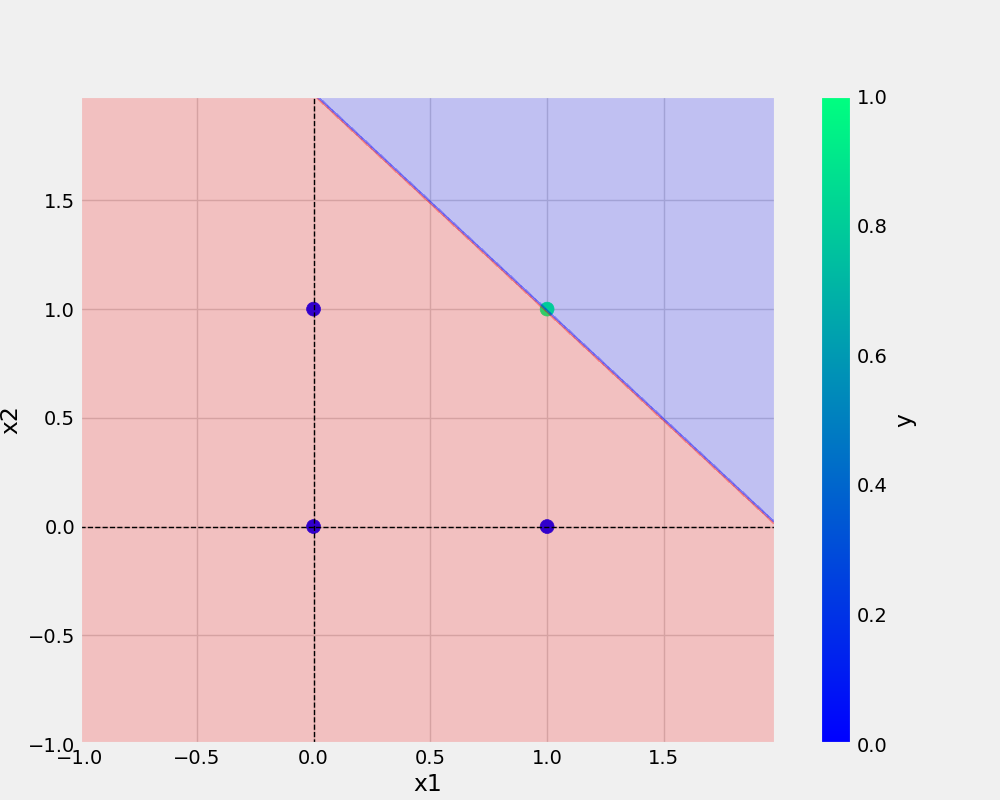
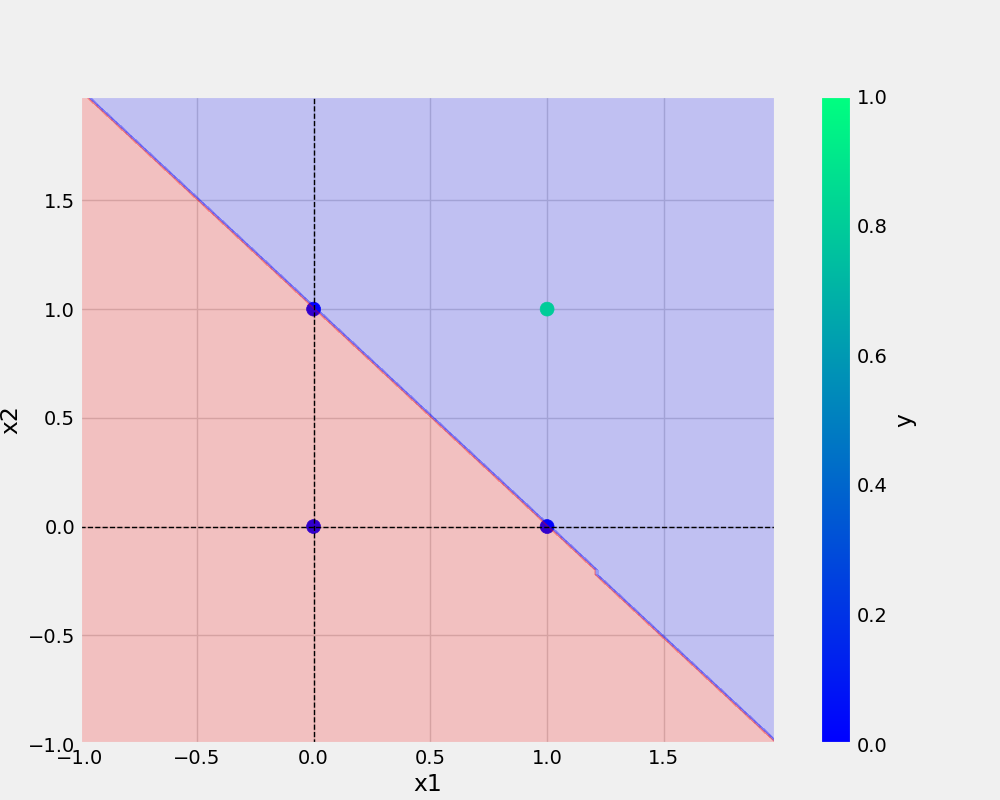
final commit

Changed region(s): [[0.093, 0.125, 0.775, 0.9375]]

diff --git a/or.py b/or.py
@@ -1,0 +1,32 @@
+from utils.model import Perceptron
+from utils.all_utils import prepare_data, save_plot, save_model
+import pandas as pd
+import numpy as np 
+
+
+
+
+def main(data,eta,epochs,filename,plotimage):
+    
+    df=pd.DataFrame(data)
+    print(df)
+
+    x,y=prepare_data(df)
+    model =Perceptron(eta, epochs)
+    model.fit(x,y)
+    _=model.total_loss()
+
+
+    save_model(model,filename)
+    save_plot(df,plotimage,model)
+
+if __name__== '__main__':
+    OR = {
+    "x1":[0,0,1,1],
+    "x2":[0,1,0,1],
+    "y":[0,1,1,1]
+
+    }
+    ETA =0.3  # 0 and 1
+    EPOCHS= 10
+    main(data=OR ,eta=ETA,epochs=EPOCHS,filename="or.model",plotimage="or.png")

diff --git a/xor.py b/xor.py
@@ -20,15 +20,12 @@ def main(data,eta,epochs,filename,plotimage):
     save_plot(df,plotimage,model)
 
 if __name__== '__main__':
-    AND = {
+    XOR = {
     "x1":[0,0,1,1],
     "x2":[0,1,0,1],
-    "y":[0,0,0,1]
+    "y":[0,1,1,0]
 
     }
     ETA =0.3  # 0 and 1
     EPOCHS= 10
-    main(data=AND ,eta=ETA,epochs=EPOCHS,filename="and.model",plotimage="and.png")
-
-
-
+    main(data=XOR ,eta=ETA,epochs=EPOCHS,filename="xor.model",plotimage="xor.png")
